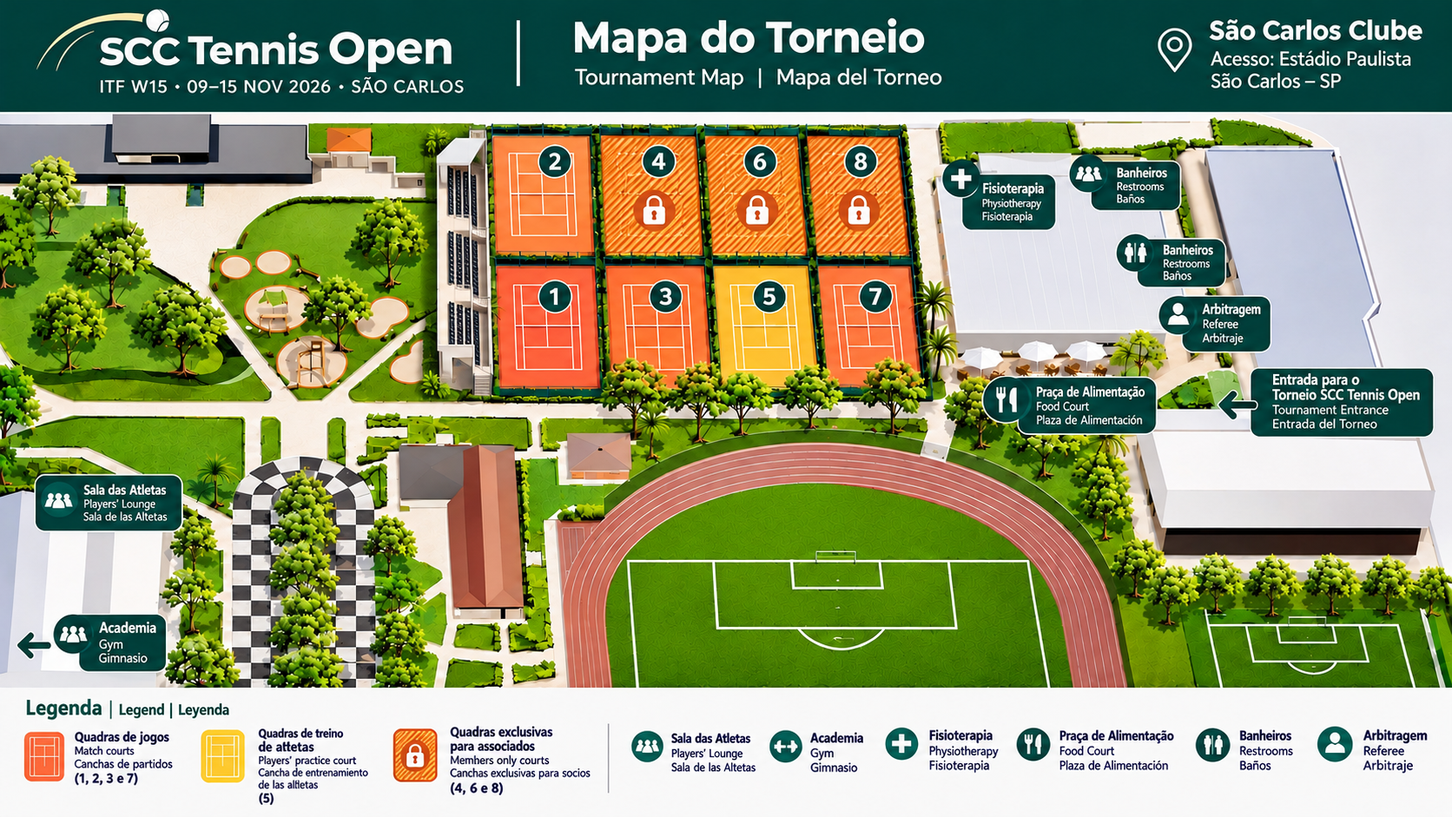
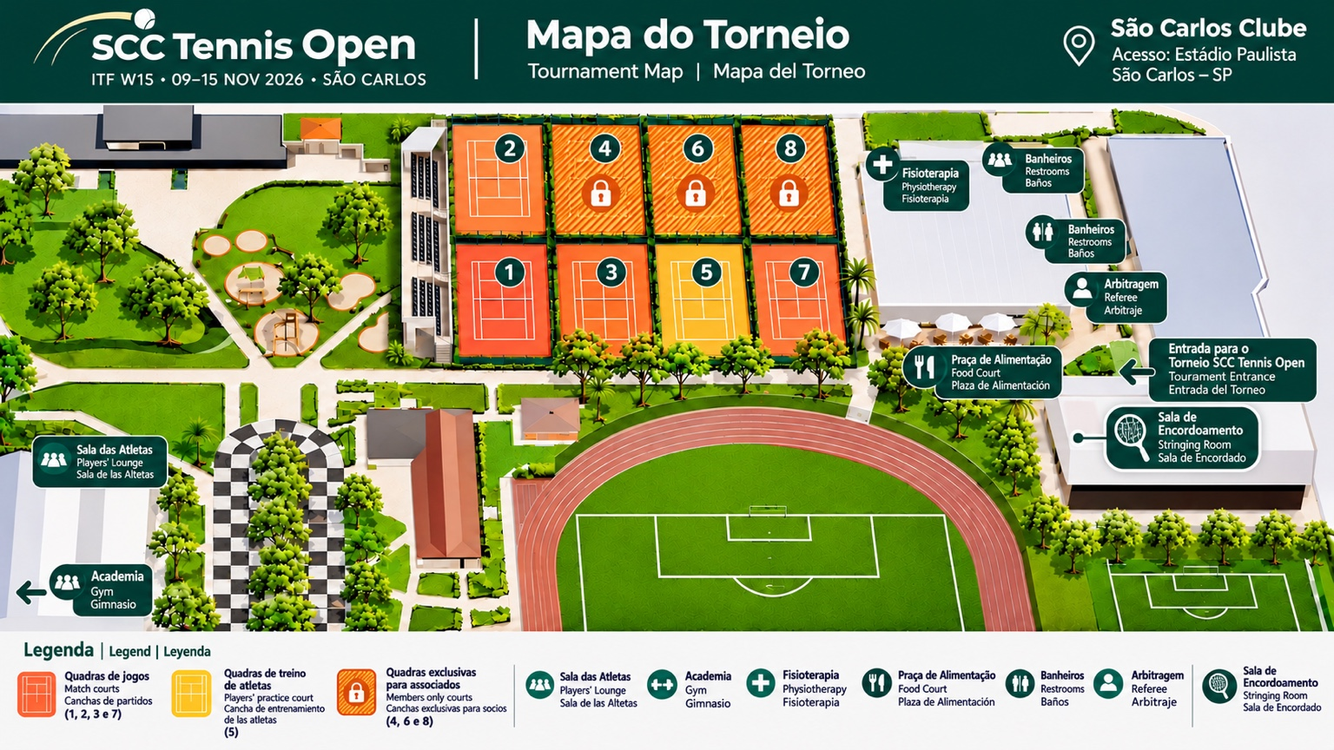
Add files via upload

diff --git a/index.html b/index.html
@@ -5,30 +5,20 @@
 <div class="hero"><div class="hero-inner"><div><div class="eyebrow">ITF W15 · 09–15 NOV 2026 · SÃO CARLOS</div><h1 data-i="heroTitle">Bem-vindas a São Carlos!</h1><p data-i="heroDesc">Seu guia para conhecer o clube, encontrar as quadras e aproveitar a semana do torneio.</p><a class="btn" href="#mapa" data-i="seeMap">Ver mapa do torneio</a><a class="btn alt" href="#contatos" data-i="contacts">Contatos úteis</a></div><img src="w15.png" alt="Tênis Paulista Pro Series — World Tennis Women's W15 São Carlos"></div></div>
 <main class="container"><nav class="quick"><a href="#acesso" data-i="arrival">📍 Chegada</a><a href="#mapa" data-i="map">🎾 Mapa</a><a href="#alimentacao" data-i="food">🍽 Alimentação</a><a href="#servicos" data-i="services">💪 Serviços</a><a href="#lavanderia" data-i="laundry">🧺 Lavanderia</a><a href="#transporte" data-i="transport">🚐 Transporte</a><a href="#fotos" data-i="photos">📸 Fotos</a><a href="#contatos" data-i="contacts">☎ Contatos</a></nav>
 <section id="acesso"><h2 data-i="arrivalTitle">Chegada e acesso</h2><p class="intro" data-i="arrivalDesc">Acesso indicado pela organização: portaria do Estádio Paulista, São Carlos Clube.</p><div class="image-row"><img src="entrada.png" alt="Entrada Estádio Paulista — fotografia de referência"><div class="card"><h3 data-i="entrance">Entrada das atletas</h3><p>São Carlos Clube — Estádio Paulista</p><p data-i="entranceHint">Utilize este link de navegação para chegar à entrada indicada para o torneio.</p><a class="btn" target="_blank" rel="noopener" href="https://maps.app.goo.gl/6DF1p5DeFCTqMy3g6" data-i="openMaps">Abrir no Google Maps</a><p class="small" data-i="accessPending">Orientações de credenciamento e acesso: a confirmar.</p></div></div></section>
-<section id="mapa"><h2 data-i="mapTitle">Mapa do torneio</h2><p class="intro" data-i="mapDesc">Confira as quadras no mapa: jogos nas quadras 1, 2, 3 e 7; treino das atletas na quadra 5; quadras 4, 6 e 8 exclusivas dos associados.</p><div class="card"><div class="map-wrap"><img src="mapa.png" alt="Mapa ilustrado do complexo e instalações"></div><div class="legend"><span><i class="dot" style="background:#156a61"></i><span data-i="match">Jogos</span>: 1, 2, 3, 7</span><span><i class="dot" style="background:#cc642b"></i><span data-i="practice">Treino</span>: 5</span><span><i class="dot" style="background:#727e82"></i><span data-i="pending">A confirmar</span>: 4, 6, 8</span></div><p class="map-status" id="courtInfo" aria-live="polite"></p><p class="small" data-i="mapCaution">Mapa ilustrativo com posições de instalações informadas pela organização. Consulte a sinalização no local.</p></div></section>
-<section id="servicos"><h2 data-i="servicesTitle">Estrutura e serviços</h2><div class="cols"><article class="card"><img class="image" src="academia.png" alt="Academia do clube"><h3 data-i="gym">Academia</h3><p data-i="gymDesc">Ampla, completa e equipada. Uso compartilhado com associados do clube.</p><strong data-i="gymHours">Todos os dias · 10h30–14h</strong></article><article class="card"><h3 data-i="physio">Fisioterapia</h3><p data-i="physioDesc">Disponível durante todo o evento. Localização identificada no mapa.</p><h3 data-i="playersRoom">Sala das atletas</h3><p data-i="playersDesc">Espaço indicado no mapa do complexo.</p><h3 data-i="officials">Arbitragem</h3><p data-i="officialsDesc">Localização indicada no mapa, junto à quina do prédio.</p><h3 data-i="stands">Arquibancada</h3><p data-i="standsDesc">Arquibancada de alvenaria com três degraus ao longo da lateral das quadras 1 e 2.</p></article></div><div class="card"><h3 data-i="bookCourt">Reserva de quadras de treino</h3><p data-i="bookDesc">Contato e procedimento de reserva serão divulgados pela organização.</p><span class="btn disabled" data-i="phonePending">WhatsApp em breve</span></div></section>
-<section id="alimentacao"><h2 data-i="foodTitle">Onde comer</h2><p class="intro" data-i="foodDesc">Opções dentro do clube e restaurantes na cidade. Confirme os horários antes de sair.</p><div class="cols"><article class="card restaurant"><span class="tag" data-i="inside">Dentro do clube</span><h3>El Cardal Parrilla & Bar</h3><p data-i="cardalHours">Almoço: segunda a sexta, 11h30–14h30; sábados, domingos e feriados, 11h30–15h.</p></article><article class="card restaurant"><span class="tag" data-i="inside">Dentro do clube</span><h3 data-i="foodCourt">Praça de alimentação do torneio</h3><p data-i="foodCourtPending">Operações e horários serão divulgados em breve.</p></article></div><div class="cols3" id="restaurants"></div></section>
+<section id="mapa"><h2 data-i="mapTitle">Mapa do torneio</h2><p class="intro" data-i="mapDesc">Confira as quadras no mapa: jogos nas quadras 1, 2, 3 e 7; treino das atletas na quadra 5; quadras 4, 6 e 8 exclusivas dos associados.</p><div class="card"><div class="map-wrap"><img src="mapa.png" alt="Mapa ilustrado do complexo e instalações"></div><div class="legend"><span><i class="dot" style="background:#156a61"></i><span data-i="match">Jogos</span>: 1, 2, 3, 7</span><span><i class="dot" style="background:#cc642b"></i><span data-i="practice">Treino</span>: 5</span><span><i class="dot" style="background:#727e82"></i><span data-i="pending">Exclusivas para associados</span>: 4, 6, 8</span></div><p class="map-status" id="courtInfo" aria-live="polite"></p><p class="small" data-i="mapCaution">Mapa ilustrativo com posições de instalações informadas pela organização. Consulte a sinalização no local.</p></div></section>
+<section id="servicos"><h2 data-i="servicesTitle">Estrutura e serviços</h2><div class="cols"><article class="card"><img class="image" src="academia.png" alt="Academia do clube"><h3 data-i="gym">Academia</h3><p data-i="gymDesc">Ampla, completa e equipada. Uso compartilhado com associados do clube.</p><strong data-i="gymHours">Todos os dias · 10h30–14h</strong></article><article class="card"><h3 data-i="physio">Fisioterapia</h3><p data-i="physioDesc">Disponível durante todo o evento. Localização identificada no mapa.</p><h3 data-i="playersRoom">Sala das atletas</h3><p data-i="playersDesc">Espaço indicado no mapa do complexo.</p><h3 data-i="officials">Arbitragem</h3><p data-i="officialsDesc">Localização indicada no mapa, junto à quina do prédio.</p><h3 data-i="stands">Arquibancada</h3><p data-i="standsDesc">Arquibancada de alvenaria com três degraus ao longo da lateral das quadras 1 e 2.</p></article></div><div class="card"><h3 data-i="bookCourt">Reserva de quadras de treino</h3><p data-i="bookDesc">Agendamento pelo WhatsApp: +55 11 98464-0360.</p><a class="btn" href="https://wa.me/5511984640360" target="_blank" rel="noopener">WhatsApp · +55 11 98464-0360</a></div></section>
+<section id="encordoamento"><h2 data-i="stringingTitle">Encordoamento</h2><div class="card"><p data-i="stringingDesc">Fabiano — atendimento no local durante o evento. Caso não esteja na sala, entre em contato pelo telefone abaixo.</p><a class="btn" href="https://wa.me/5516996090605" target="_blank" rel="noopener">WhatsApp · +55 16 99609-0605</a></div></section><section id="medico"><h2 data-i="medicalTitle">Atendimento médico</h2><div class="card"><p data-i="medicalDesc">Ambulância disponível durante todo o evento.</p></div></section><section id="alimentacao"><h2 data-i="foodTitle">Onde comer</h2><p class="intro" data-i="foodDesc">Opções dentro do clube e restaurantes na cidade. Confirme os horários antes de sair.</p><div class="cols"><article class="card restaurant"><span class="tag" data-i="inside">Dentro do clube</span><h3>El Cardal Parrilla & Bar</h3><p data-i="cardalHours">Almoço: segunda a sexta, 11h30–14h30; sábados, domingos e feriados, 11h30–15h.</p></article><article class="card restaurant"><span class="tag" data-i="inside">Dentro do clube</span><h3 data-i="foodCourt">Praça de alimentação do torneio</h3><p data-i="foodCourtPending">Operações e horários serão divulgados em breve.</p></article></div><div class="cols3" id="restaurants"></div></section>
 <section id="lavanderia"><h2 data-i="laundryTitle">Lavanderia</h2><div class="card"><h3>Laundromat Lavanderia Self-Service (Rodoviária)</h3><p>Rua Jacinto Favoreto, 777 — Jardim Lutfalla, São Carlos</p><p data-i="laundryHours">Informação recebida: funcionamento 24 horas, todos os dias. Confirme antes de ir.</p><a class="btn" target="_blank" rel="noopener" href="https://www.google.com/maps/search/?api=1&query=Laundromat+Rua+Jacinto+Favoreto+777+Sao+Carlos" data-i="openMaps">Abrir no Google Maps</a></div></section>
 <section id="transporte"><h2 data-i="transportTitle">Transporte</h2><div class="card"><p data-i="transportDesc">Haverá transporte após as 18h. Rotas, disponibilidade, pontos de embarque e telefone de contato serão informados pela organização.</p><span class="btn disabled" data-i="phonePending">WhatsApp em breve</span></div></section>
 <section id="fotos"><h2 data-i="photosTitle">Fotos do torneio</h2><div class="card"><p data-i="photosDesc">A galeria oficial de fotografias será disponibilizada aqui assim que o link estiver pronto.</p><span class="btn disabled" data-i="galleryPending">Galeria em breve</span></div></section>
-<section id="contatos"><h2 data-i="contactsTitle">Contatos úteis</h2><div class="card"><p data-i="contactsDesc">Contatos da organização, reserva de quadras, transporte e equipe de arbitragem serão incluídos após confirmação.</p><p><strong data-i="emergency">Emergências no Brasil:</strong> SAMU 192 · Polícia Militar 190</p><p class="note" data-i="updateNote">Este é um guia em atualização. Informações pendentes não devem ser interpretadas como serviços confirmados.</p></div></section></main>
+<section id="contatos"><h2 data-i="contactsTitle">Contatos úteis</h2><div class="card"><p data-i="contactsDesc">Para reservar quadras de treino, utilize o WhatsApp indicado na seção de serviços.</p><p><strong data-i="emergency">Emergências no Brasil:</strong> SAMU 192 · Polícia Militar 190</p><p class="note" data-i="updateNote">Este é um guia em atualização. Informações pendentes não devem ser interpretadas como serviços confirmados.</p></div></section></main>
 <footer class="site-footer"><img src="logos-institucionais.jpg" alt="Logos institucionais"><p>SCC Tennis Open · São Carlos · 09–15/11/2026</p><small data-i="footer">Guia das atletas — versão preliminar 3.0</small></footer>
 <script>
 // CONFIGURAÇÃO: atualizar somente valores confirmados; não inserir telefones fictícios.
-const CONFIG={courtBookingWhatsApp:'',transportWhatsApp:'',photoGalleryUrl:''};
-const dict={pt:{heroTitle:'Bem-vindas a São Carlos!',heroDesc:'Seu guia para conhecer o clube, encontrar as quadras e aproveitar a semana do torneio.',seeMap:'Ver mapa do torneio',contacts:'Contatos úteis',arrival:'📍 Chegada',map:'🎾 Mapa',food:'🍽 Alimentação',services:'💪 Serviços',laundry:'🧺 Lavanderia',transport:'🚐 Transporte',photos:'📸 Fotos',arrivalTitle:'Chegada e acesso',arrivalDesc:'Acesso indicado pela organização: portaria do Estádio Paulista, São Carlos Clube.',entrance:'Entrada das atletas',entranceHint:'Utilize este link de navegação para chegar à entrada indicada para o torneio.',openMaps:'Abrir no Google Maps',accessPending:'Orientações de credenciamento e acesso: a confirmar.',mapTitle:'Mapa do torneio',mapDesc:'Confira as quadras no mapa: jogos nas quadras 1, 2, 3 e 7; treino das atletas na quadra 5; quadras 4, 6 e 8 exclusivas dos associados.',match:'Jogos',practice:'Treino',pending:'Exclusivas para associados',mapCaution:'Mapa ilustrativo com posições de instalações informadas pela organização. Consulte a sinalização no local.',servicesTitle:'Estrutura e serviços',gym:'Academia',gymDesc:'Ampla, completa e equipada. Uso compartilhado com associados do clube.',gymHours:'Todos os dias · 10h30–14h',physio:'Fisioterapia',physioDesc:'Disponível durante todo o evento. Localização identificada no mapa.',playersRoom:'Sala das atletas',playersDesc:'Espaço indicado no mapa do complexo.',officials:'Arbitragem',officialsDesc:'Localização indicada no mapa, junto à quina do prédio.',stands:'Arquibancada',standsDesc:'Arquibancada de alvenaria com três degraus ao longo da lateral das quadras 1 e 2.',bookCourt:'Reserva de quadras de treino',bookDesc:'Contato e procedimento de reserva serão divulgados pela organização.',phonePending:'WhatsApp em breve',foodTitle:'Onde comer',foodDesc:'Opções dentro do clube e restaurantes na cidade. Confirme os horários antes de sair.',inside:'Dentro do clube',cardalHours:'Almoço: segunda a sexta, 11h30–14h30; sábados, domingos e feriados, 11h30–15h.',foodCourt:'Praça de alimentação do torneio',foodCourtPending:'Operações e horários serão divulgados em breve.',partner:'Parceiro do torneio',other:'Opção na cidade',laundryTitle:'Lavanderia',laundryHours:'Informação recebida: funcionamento 24 horas, todos os dias. Confirme antes de ir.',transportTitle:'Transporte',transportDesc:'Haverá transporte após as 18h. Rotas, disponibilidade, pontos de embarque e telefone de contato serão informados pela organização.',photosTitle:'Fotos do torneio',photosDesc:'A galeria oficial de fotografias será disponibilizada aqui assim que o link estiver pronto.',galleryPending:'Galeria em breve',contactsTitle:'Contatos úteis',contactsDesc:'Contatos da organização, reserva de quadras, transporte e equipe de arbitragem serão incluídos após confirmação.',emergency:'Emergências no Brasil:',updateNote:'Este é um guia em atualização. Informações pendentes não devem ser interpretadas como serviços confirmados.',footer:'Guia das atletas — versão preliminar 3.0',court:'Quadra',courtMatch:'Jogos',courtPractice:'Treino',courtMembers:'Utilização a confirmar'},en:{heroTitle:'Welcome to São Carlos!',heroDesc:'Your guide to the club, courts and everything you need during tournament week.',seeMap:'View tournament map',contacts:'Useful contacts',arrival:'📍 Arrival',map:'🎾 Map',food:'🍽 Food',services:'💪 Facilities',laundry:'🧺 Laundry',transport:'🚐 Transport',photos:'📸 Photos',arrivalTitle:'Arrival and access',arrivalDesc:'Tournament entrance designated by the organizers: Estádio Paulista gate, São Carlos Clube.',entrance:'Players’ entrance',entranceHint:'Use this navigation link to reach the designated tournament entrance.',openMaps:'Open Google Maps',accessPending:'Accreditation and entry instructions: to be confirmed.',mapTitle:'Tournament map',mapDesc:'Tap a court number to check its designated use. Courts 4, 6 and 8 are for club members only.',match:'Matches',practice:'Practice',pending:'Members only',mapCaution:'Illustrative site map based on locations provided by the organizers. Follow on-site signs.',servicesTitle:'Facilities and services',gym:'Fitness center',gymDesc:'Spacious and fully equipped. Shared with club members.',gymHours:'Daily · 10:30 AM–2:00 PM',physio:'Physiotherapy',physioDesc:'Available throughout the event. Location marked on the map.',playersRoom:'Players’ lounge',playersDesc:'Location marked on the site map.',officials:'Officials’ room',officialsDesc:'Marked on the map, near the corner of the building.',stands:'Spectator seating',standsDesc:'Three-tier masonry seating along the side of Courts 1 and 2.',bookCourt:'Practice court booking',bookDesc:'Booking contact and instructions will be announced by the organizers.',phonePending:'WhatsApp coming soon',foodTitle:'Where to eat',foodDesc:'Options inside the club and around the city. Please check opening hours before visiting.',inside:'Inside the club',cardalHours:'Lunch: Mon–Fri, 11:30 AM–2:30 PM; Sat, Sun and holidays, 11:30 AM–3:00 PM.',foodCourt:'Tournament food court',foodCourtPending:'Food vendors and opening hours to be announced.',partner:'Tournament partner',other:'Local option',laundryTitle:'Laundry',laundryHours:'Reported hours: open 24 hours daily. Please confirm before visiting.',transportTitle:'Transportation',transportDesc:'Transportation will be available after 6:00 PM. Routes, availability, pickup points and contact number will be announced.',photosTitle:'Tournament photos',photosDesc:'The official photo gallery link will be added here when available.',galleryPending:'Gallery coming soon',contactsTitle:'Useful contacts',contactsDesc:'Organizer, court booking, transport and officials’ contact details will be added once confirmed.',emergency:'Emergency numbers in Brazil:',updateNote:'This guide is being updated. Pending details should not be taken as confirmed services.',footer:'Players’ guide — preliminary version 1.0',court:'Court',courtMatch:'Matches',courtPractice:'Practice',courtMembers:'Use to be confirmed'},es:{heroTitle:'¡Bienvenidas a São Carlos!',heroDesc:'Su guía para conocer el club, encontrar las canchas y disfrutar de la semana del torneo.',seeMap:'Ver mapa del torneo',contacts:'Contactos útiles',arrival:'📍 Llegada',map:'🎾 Mapa',food:'🍽 Comida',services:'💪 Servicios',laundry:'🧺 Lavandería',transport:'🚐 Transporte',photos:'📸 Fotos',arrivalTitle:'Llegada y acceso',arrivalDesc:'Acceso indicado por la organización: entrada del Estádio Paulista, São Carlos Clube.',entrance:'Entrada de las jugadoras',entranceHint:'Utilice este enlace para llegar a la entrada indicada para el torneo.',openMaps:'Abrir Google Maps',accessPending:'Indicaciones de acreditación y acceso: por confirmar.',mapTitle:'Mapa del torneo',mapDesc:'Toque el número de cada cancha para consultar su uso. Las canchas 4, 6 y 8 son exclusivas para socios.',match:'Partidos',practice:'Entrenamiento',pending:'Solo para socios',mapCaution:'Mapa ilustrativo basado en las ubicaciones indicadas por la organización. Siga la señalización del lugar.',servicesTitle:'Instalaciones y servicios',gym:'Gimnasio',gymDesc:'Amplio y completamente equipado. Uso compartido con los socios del club.',gymHours:'Todos los días · 10:30–14:00',physio:'Fisioterapia',physioDesc:'Disponible durante todo el evento. Ubicación indicada en el mapa.',playersRoom:'Sala de las jugadoras',playersDesc:'Espacio indicado en el mapa del complejo.',officials:'Sala de arbitraje',officialsDesc:'Ubicación indicada en el mapa, junto a la esquina del edificio.',stands:'Gradas',standsDesc:'Gradas de mampostería de tres niveles a lo largo de las canchas 1 y 2.',bookCourt:'Reserva de canchas de entrenamiento',bookDesc:'La organización anunciará el contacto y el procedimiento de reserva.',phonePending:'WhatsApp próximamente',foodTitle:'Dónde comer',foodDesc:'Opciones dentro del club y en la ciudad. Confirme los horarios antes de ir.',inside:'Dentro del club',cardalHours:'Almuerzo: lunes a viernes, 11:30–14:30; sábados, domingos y festivos, 11:30–15:00.',foodCourt:'Zona de comidas del torneo',foodCourtPending:'Los locales y horarios se anunciarán próximamente.',partner:'Colaborador del torneo',other:'Opción en la ciudad',laundryTitle:'Lavandería',laundryHours:'Horario informado: abierto las 24 horas, todos los días. Confirme antes de ir.',transportTitle:'Transporte',transportDesc:'Habrá transporte después de las 18:00. La organización comunicará rutas, disponibilidad, puntos de salida y teléfono de contacto.',photosTitle:'Fotos del torneo',photosDesc:'El enlace de la galería oficial se añadirá aquí cuando esté disponible.',galleryPending:'Galería próximamente',contactsTitle:'Contactos útiles',contactsDesc:'Se añadirán los contactos de organización, reserva de canchas, transporte y arbitraje cuando estén confirmados.',emergency:'Emergencias en Brasil:',updateNote:'Esta guía se está actualizando. Los datos pendientes no deben interpretarse como servicios confirmados.',footer:'Guía de las jugadoras — versión preliminar 1.0',court:'Cancha',courtMatch:'Partidos',courtPractice:'Entrenamiento',courtMembers:'Uso por confirmar'}};
+const CONFIG={courtBookingWhatsApp:'5511984640360',transportWhatsApp:'',photoGalleryUrl:''};
+const dict={pt:{heroTitle:'Bem-vindas a São Carlos!',heroDesc:'Seu guia para conhecer o clube, encontrar as quadras e aproveitar a semana do torneio.',seeMap:'Ver mapa do torneio',contacts:'Contatos úteis',arrival:'📍 Chegada',map:'🎾 Mapa',food:'🍽 Alimentação',services:'💪 Serviços',laundry:'🧺 Lavanderia',transport:'🚐 Transporte',photos:'📸 Fotos',arrivalTitle:'Chegada e acesso',arrivalDesc:'Acesso indicado pela organização: portaria do Estádio Paulista, São Carlos Clube.',entrance:'Entrada das atletas',entranceHint:'Utilize este link de navegação para chegar à entrada indicada para o torneio.',openMaps:'Abrir no Google Maps',accessPending:'Orientações de credenciamento e acesso: a confirmar.',mapTitle:'Mapa do torneio',mapDesc:'Confira as quadras no mapa: jogos nas quadras 1, 2, 3 e 7; treino das atletas na quadra 5; quadras 4, 6 e 8 exclusivas dos associados.',match:'Jogos',practice:'Treino',pending:'Exclusivas para associados',mapCaution:'Mapa ilustrativo com posições de instalações informadas pela organização. Consulte a sinalização no local.',servicesTitle:'Estrutura e serviços',gym:'Academia',gymDesc:'Ampla, completa e equipada. Uso compartilhado com associados do clube.',gymHours:'Todos os dias · 10h30–14h',physio:'Fisioterapia',physioDesc:'Equipe de fisioterapia presente durante todo o evento. Localização identificada no mapa.',playersRoom:'Sala das atletas',playersDesc:'Espaço indicado no mapa do complexo.',officials:'Arbitragem',officialsDesc:'Localização indicada no mapa, junto à quina do prédio.',stands:'Arquibancada',standsDesc:'Arquibancada de alvenaria com três degraus ao longo da lateral das quadras 1 e 2.',bookCourt:'Reserva de quadras de treino',bookDesc:'Agendamento pelo WhatsApp: +55 11 98464-0360.',phonePending:'WhatsApp em breve',foodTitle:'Onde comer',foodDesc:'Opções dentro do clube e restaurantes na cidade. Confirme os horários antes de sair.',inside:'Dentro do clube',cardalHours:'Almoço: segunda a sexta, 11h30–14h30; sábados, domingos e feriados, 11h30–15h.',foodCourt:'Praça de alimentação do torneio',foodCourtPending:'Operações e horários serão divulgados em breve.',partner:'Parceiro do torneio',other:'Opção na cidade',laundryTitle:'Lavanderia',laundryHours:'Informação recebida: funcionamento 24 horas, todos os dias. Confirme antes de ir.',transportTitle:'Transporte',transportDesc:'Haverá transporte após as 18h. Rotas, disponibilidade, pontos de embarque e telefone de contato serão informados pela organização.',photosTitle:'Fotos do torneio',photosDesc:'A galeria oficial de fotografias será disponibilizada aqui assim que o link estiver pronto.',galleryPending:'Galeria em breve',contactsTitle:'Contatos úteis',contactsDesc:'Para reservar quadras de treino, utilize o WhatsApp indicado na seção de serviços.',emergency:'Emergências no Brasil:',updateNote:'Este é um guia em atualização. Informações pendentes não devem ser interpretadas como serviços confirmados.',footer:'Guia das atletas — versão preliminar 3.0',court:'Quadra',courtMatch:'Jogos',courtPractice:'Treino',courtMembers:'Exclusiva para associados',stringingTitle:'Encordoamento',stringingDesc:'Fabiano — atendimento no local durante o evento. Caso não esteja na sala, entre em contato pelo telefone abaixo.',medicalTitle:'Atendimento médico',medicalDesc:'Ambulância disponível durante todo o evento.'},en:{heroTitle:'Welcome to São Carlos!',heroDesc:'Your guide to the club, courts and everything you need during tournament week.',seeMap:'View tournament map',contacts:'Useful contacts',arrival:'📍 Arrival',map:'🎾 Map',food:'🍽 Food',services:'💪 Facilities',laundry:'🧺 Laundry',transport:'🚐 Transport',photos:'📸 Photos',arrivalTitle:'Arrival and access',arrivalDesc:'Tournament entrance designated by the organizers: Estádio Paulista gate, São Carlos Clube.',entrance:'Players’ entrance',entranceHint:'Use this navigation link to reach the designated tournament entrance.',openMaps:'Open Google Maps',accessPending:'Accreditation and entry instructions: to be confirmed.',mapTitle:'Tournament map',mapDesc:'Tap a court number to check its designated use. Courts 4, 6 and 8 are for club members only.',match:'Matches',practice:'Practice',pending:'Members only',mapCaution:'Illustrative site map based on locations provided by the organizers. Follow on-site signs.',servicesTitle:'Facilities and services',gym:'Fitness center',gymDesc:'Spacious and fully equipped. Shared with club members.',gymHours:'Daily · 10:30 AM–2:00 PM',physio:'Physiotherapy',physioDesc:'Physiotherapy staff on site throughout the event. Location marked on the map.',playersRoom:'Players’ lounge',playersDesc:'Location marked on the site map.',officials:'Officials’ room',officialsDesc:'Marked on the map, near the corner of the building.',stands:'Spectator seating',standsDesc:'Three-tier masonry seating along the side of Courts 1 and 2.',bookCourt:'Practice court booking',bookDesc:'Book via WhatsApp: +55 11 98464-0360.',phonePending:'WhatsApp coming soon',foodTitle:'Where to eat',foodDesc:'Options inside the club and around the city. Please check opening hours before visiting.',inside:'Inside the club',cardalHours:'Lunch: Mon–Fri, 11:30 AM–2:30 PM; Sat, Sun and holidays, 11:30 AM–3:00 PM.',foodCourt:'Tournament food court',foodCourtPending:'Food vendors and opening hours to be announced.',partner:'Tournament partner',other:'Local option',laundryTitle:'Laundry',laundryHours:'Reported hours: open 24 hours daily. Please confirm before visiting.',transportTitle:'Transportation',transportDesc:'Transportation will be available after 6:00 PM. Routes, availability, pickup points and contact number will be announced.',photosTitle:'Tournament photos',photosDesc:'The official photo gallery link will be added here when available.',galleryPending:'Gallery coming soon',contactsTitle:'Useful contacts',contactsDesc:'For practice court reservations, use the WhatsApp number in the facilities section.',emergency:'Emergency numbers in Brazil:',updateNote:'This guide is being updated. Pending details should not be taken as confirmed services.',footer:'Players’ guide — 2026',court:'Court',courtMatch:'Matches',courtPractice:'Practice',courtMembers:'Members only',stringingTitle:'Stringing service',stringingDesc:'Fabiano — on-site stringing during the event. If he is away from the stringing room, please message the number below.',medicalTitle:'Medical assistance',medicalDesc:'An ambulance will be available throughout the event.'},es:{heroTitle:'¡Bienvenidas a São Carlos!',heroDesc:'Su guía para conocer el club, encontrar las canchas y disfrutar de la semana del torneo.',seeMap:'Ver mapa del torneo',contacts:'Contactos útiles',arrival:'📍 Llegada',map:'🎾 Mapa',food:'🍽 Comida',services:'💪 Servicios',laundry:'🧺 Lavandería',transport:'🚐 Transporte',photos:'📸 Fotos',arrivalTitle:'Llegada y acceso',arrivalDesc:'Acceso indicado por la organización: entrada del Estádio Paulista, São Carlos Clube.',entrance:'Entrada de las jugadoras',entranceHint:'Utilice este enlace para llegar a la entrada indicada para el torneo.',openMaps:'Abrir Google Maps',accessPending:'Indicaciones de acreditación y acceso: por confirmar.',mapTitle:'Mapa del torneo',mapDesc:'Toque el número de cada cancha para consultar su uso. Las canchas 4, 6 y 8 son exclusivas para socios.',match:'Partidos',practice:'Entrenamiento',pending:'Solo para socios',mapCaution:'Mapa ilustrativo basado en las ubicaciones indicadas por la organización. Siga la señalización del lugar.',servicesTitle:'Instalaciones y servicios',gym:'Gimnasio',gymDesc:'Amplio y completamente equipado. Uso compartido con los socios del club.',gymHours:'Todos los días · 10:30–14:00',physio:'Fisioterapia',physioDesc:'Personal de fisioterapia presente durante todo el evento. Ubicación indicada en el mapa.',playersRoom:'Sala de las jugadoras',playersDesc:'Espacio indicado en el mapa del complejo.',officials:'Sala de arbitraje',officialsDesc:'Ubicación indicada en el mapa, junto a la esquina del edificio.',stands:'Gradas',standsDesc:'Gradas de mampostería de tres niveles a lo largo de las canchas 1 y 2.',bookCourt:'Reserva de canchas de entrenamiento',bookDesc:'Reserve por WhatsApp: +55 11 98464-0360.',phonePending:'WhatsApp próximamente',foodTitle:'Dónde comer',foodDesc:'Opciones dentro del club y en la ciudad. Confirme los horarios antes de ir.',inside:'Dentro del club',cardalHours:'Almuerzo: lunes a viernes, 11:30–14:30; sábados, domingos y festivos, 11:30–15:00.',foodCourt:'Zona de comidas del torneo',foodCourtPending:'Los locales y horarios se anunciarán próximamente.',partner:'Colaborador del torneo',other:'Opción en la ciudad',laundryTitle:'Lavandería',laundryHours:'Horario informado: abierto las 24 horas, todos los días. Confirme antes de ir.',transportTitle:'Transporte',transportDesc:'Habrá transporte después de las 18:00. La organización comunicará rutas, disponibilidad, puntos de salida y teléfono de contacto.',photosTitle:'Fotos del torneo',photosDesc:'El enlace de la galería oficial se añadirá aquí cuando esté disponible.',galleryPending:'Galería próximamente',contactsTitle:'Contactos útiles',contactsDesc:'Para reservar canchas de entrenamiento, utilice el WhatsApp de la sección de servicios.',emergency:'Emergencias en Brasil:',updateNote:'Esta guía se está actualizando. Los datos pendientes no deben interpretarse como servicios confirmados.',footer:'Guía de las jugadoras — 2026',court:'Cancha',courtMatch:'Partidos',courtPractice:'Entrenamiento',courtMembers:'Solo para socios',stringingTitle:'Servicio de encordado',stringingDesc:'Fabiano — servicio de encordado durante el torneo. Si no está en la sala, envíe un mensaje al número indicado.',medicalTitle:'Asistencia médica',medicalDesc:'Habrá una ambulancia disponible durante todo el torneo.'}};
 const restaurants=[['Roda Chopp',true],['Kallas',false],["Ital’in House",false],['Fastfood Caipira',false],['Subway',false]];
 let lang='pt';const courtType=n=>[1,2,3,7].includes(n)?'courtMatch':n===5?'courtPractice':'courtMembers';
-function render(){document.documentElement.lang=lang==='pt'?'pt-BR':lang;document.querySelectorAll('[data-i]').forEach(el=>el.textContent=dict[lang][el.dataset.i]||'');document.querySelectorAll('[data-lang]').forEach(b=>b.classList.toggle('active',b.dataset.lang===lang));document.getElementById('restaurants').innerHTML=restaurants.map(([name,partner])=>`<article class="card restaurant"><span class="tag ${partner?'partner':''}">${dict[lang][partner?'partner':'other']}</span><h3>${name}</h3><a class="btn alt" target="_blank" rel="noopener" href="https://www.google.com/maps/search/?api=1&query=${encodeURIComponent(name+' São Carlos SP')}">${dict[lang].openMaps}</a></article>`).join('');document.getElementById('courtInfo').textContent='';}
+function render(){document.documentElement.lang=lang==='pt'?'pt-BR':lang;document.querySelectorAll('[data-i]').forEach(el=>el.textContent=dict[lang][el.dataset.i]||'');document.querySelectorAll('[data-lang]').forEach(b=>b.classList.toggle('active',b.dataset.lang===lang));document.getElementById('restaurants').innerHTML=restaurants.map(([name,partner])=>`<article class="card restaurant"><span class="tag ${partner?'partner':''}">${dict[lang][partner?'partner':'other']}</span><h3>${name}</h3><a class="btn alt" target="_blank" rel="noopener" href="https://www.google.com/maps/search/?api=1&query=${encodeURIComponent(name+' São Carlos SP')}">${dict[lang].openMaps}</a></article>`).join('');document.getElementById('courtInfo').textContent='';const g=document.querySelector('#fotos .disabled');if(CONFIG.photoGalleryUrl&&g){const a=document.createElement('a');a.href=CONFIG.photoGalleryUrl;a.target='_blank';a.rel='noopener';a.className='btn';a.textContent=dict[lang].galleryPending;g.replaceWith(a)}const t=document.querySelector('#transporte .disabled');if(CONFIG.transportWhatsApp&&t){const a=document.createElement('a');a.href='https://wa.me/'+CONFIG.transportWhatsApp;a.target='_blank';a.rel='noopener';a.className='btn';a.textContent='WhatsApp';t.replaceWith(a)}}
 document.querySelectorAll('[data-lang]').forEach(b=>b.addEventListener('click',()=>{lang=b.dataset.lang;render()}));document.querySelectorAll('[data-court]').forEach(b=>b.addEventListener('click',()=>{let n=Number(b.dataset.court);document.getElementById('courtInfo').textContent=`${dict[lang].court} ${n} — ${dict[lang][courtType(n)]}`}));render();
-</script><script>
-// All image files are stored alongside index.html (repository root).
-document.querySelectorAll('img[src]').forEach(function(img){
- img.addEventListener('error',function(){
-  var notice=document.createElement('small');
-  notice.textContent='Imagem não encontrada: '+img.getAttribute('src');
-  notice.style.cssText='display:block;color:#9b3426;padding:10px;background:#fff1ed;border-radius:6px';
-  img.insertAdjacentElement('afterend',notice);
- },{once:true});
-});
 </script></body></html>
